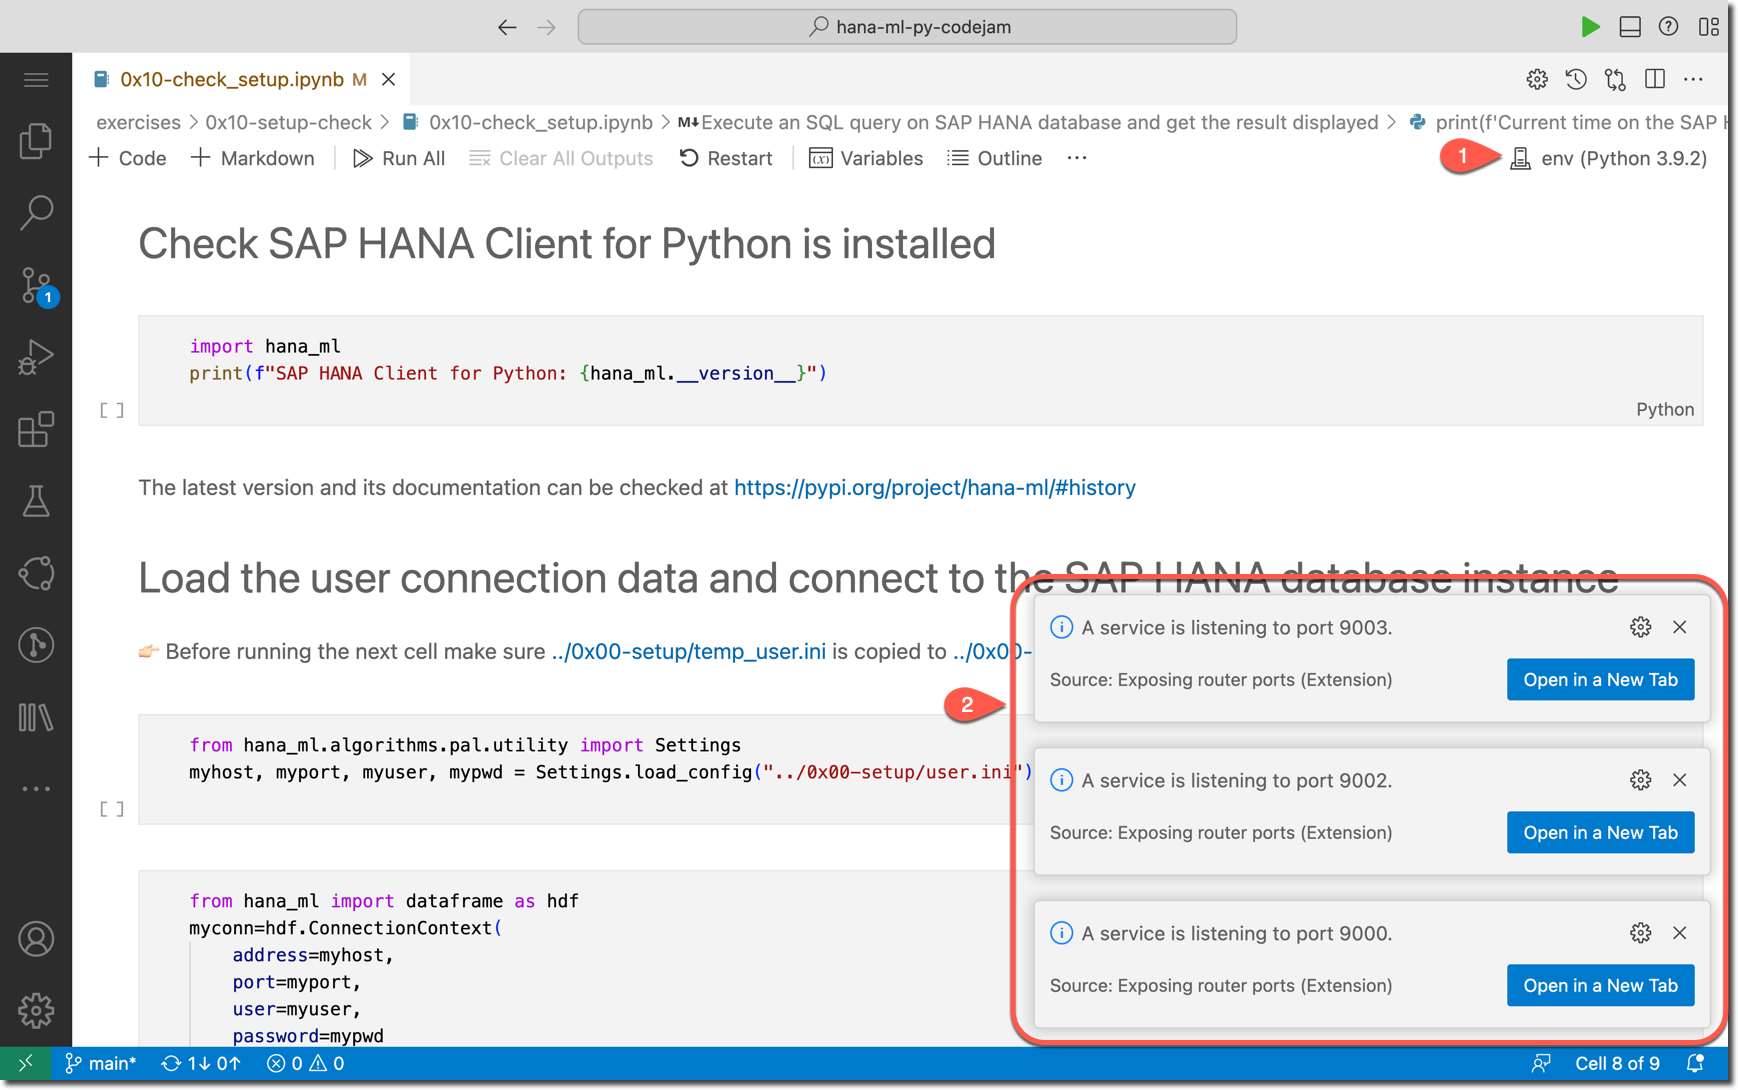
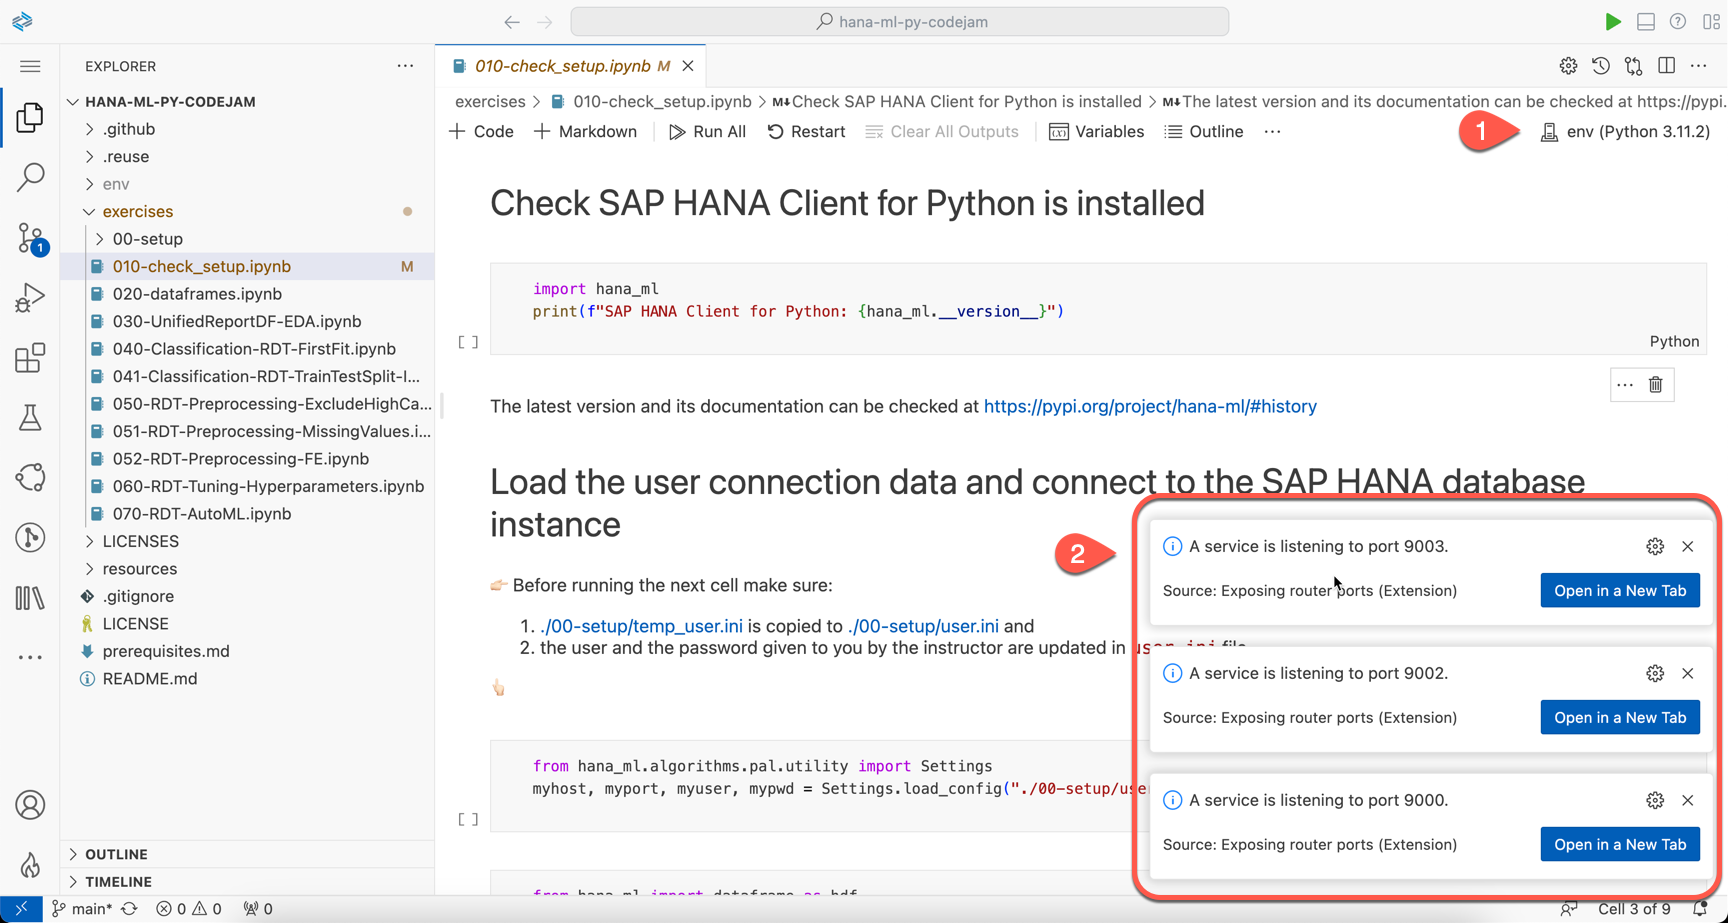
modified to update screenshots:   exercises/00-setup/setup-bas.md

Changed region(s): [[0.0, 0.0, 1.0, 1.0]]

diff --git a/exercises/00-setup/setup-bas.md b/exercises/00-setup/setup-bas.md
@@ -102,7 +102,7 @@ python -m pip install --require-virtualenv --no-cache-dir nbformat nbconvert
 
 In your BAS close the terminal. 
 
-Go to Explorer and open a `exercises/0x10-setup-check/0x10-check_setup.ipynb` notebook. 
+Go to Explorer and open a [exercises/010-check_setup.ipynb](../010-check_setup.ipynb) notebook. 
 
 The notebook should open in a Jupyter extension.
 
